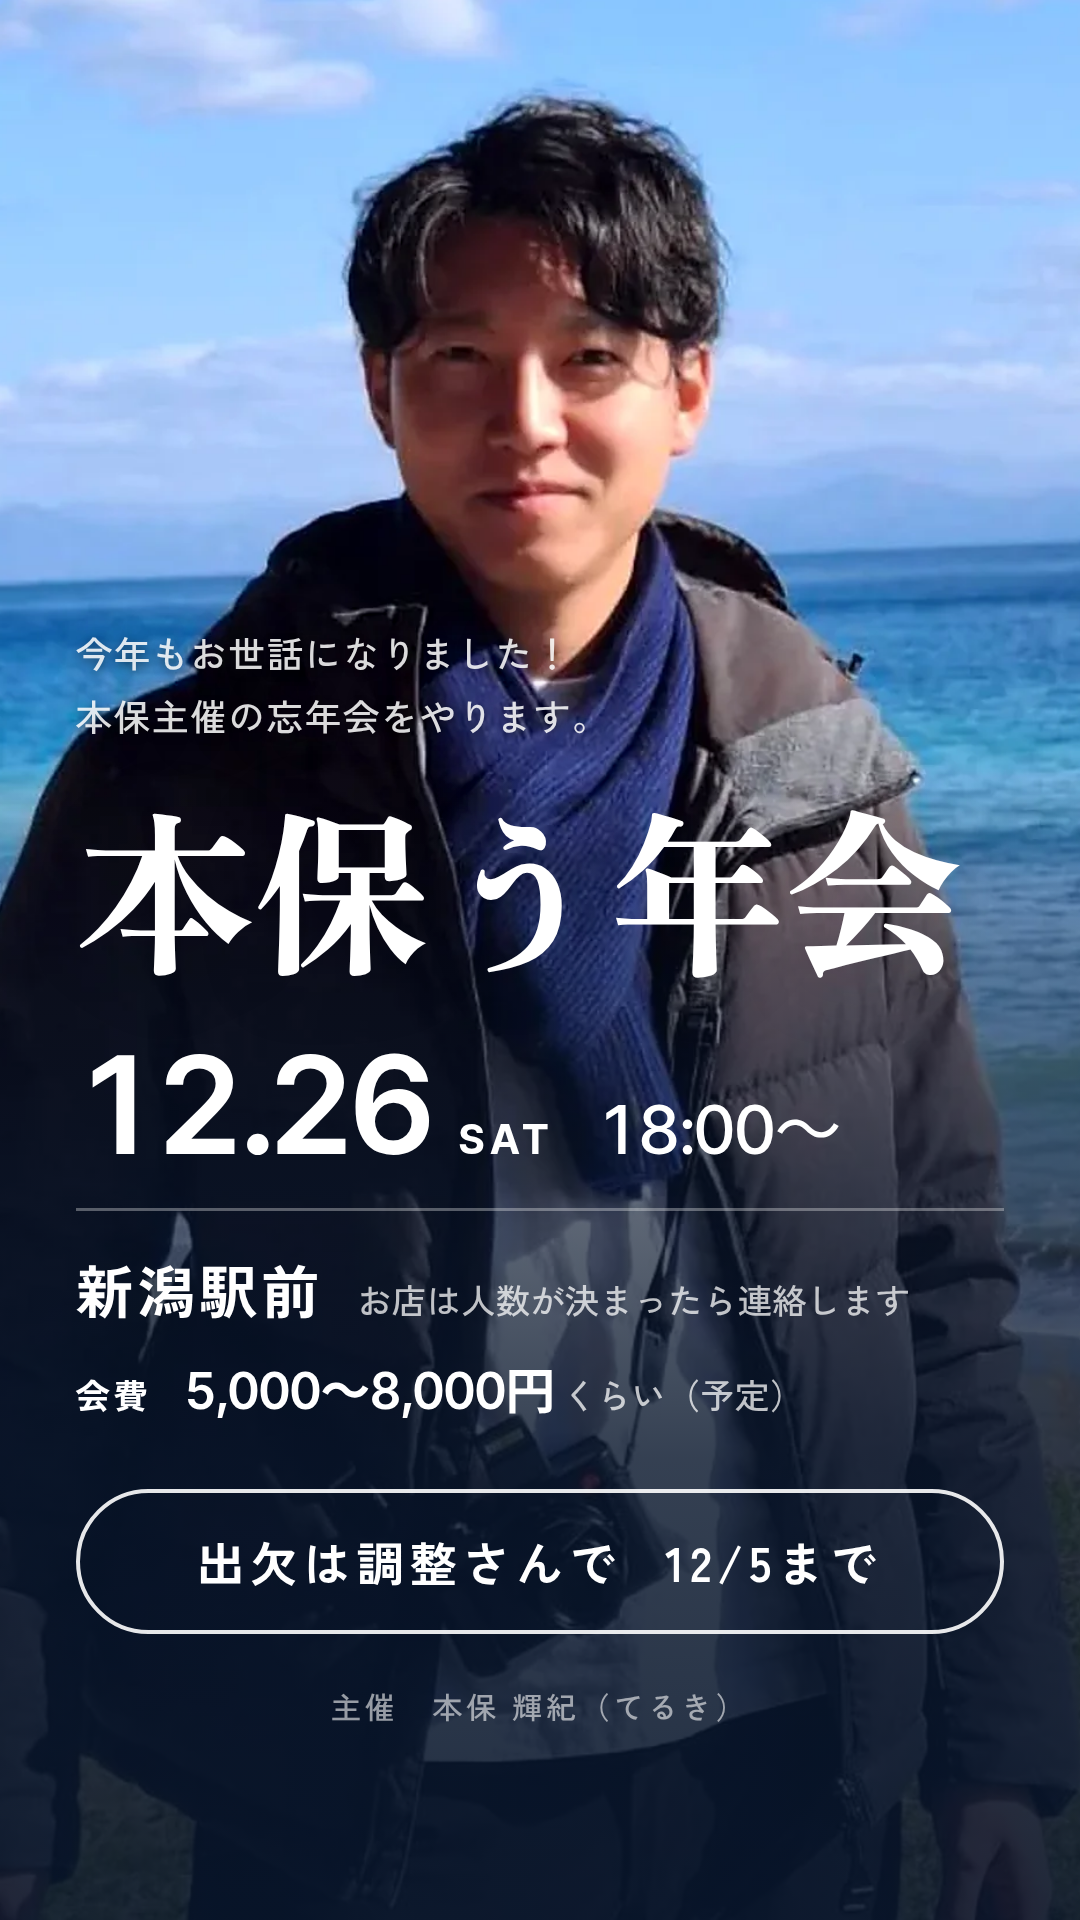
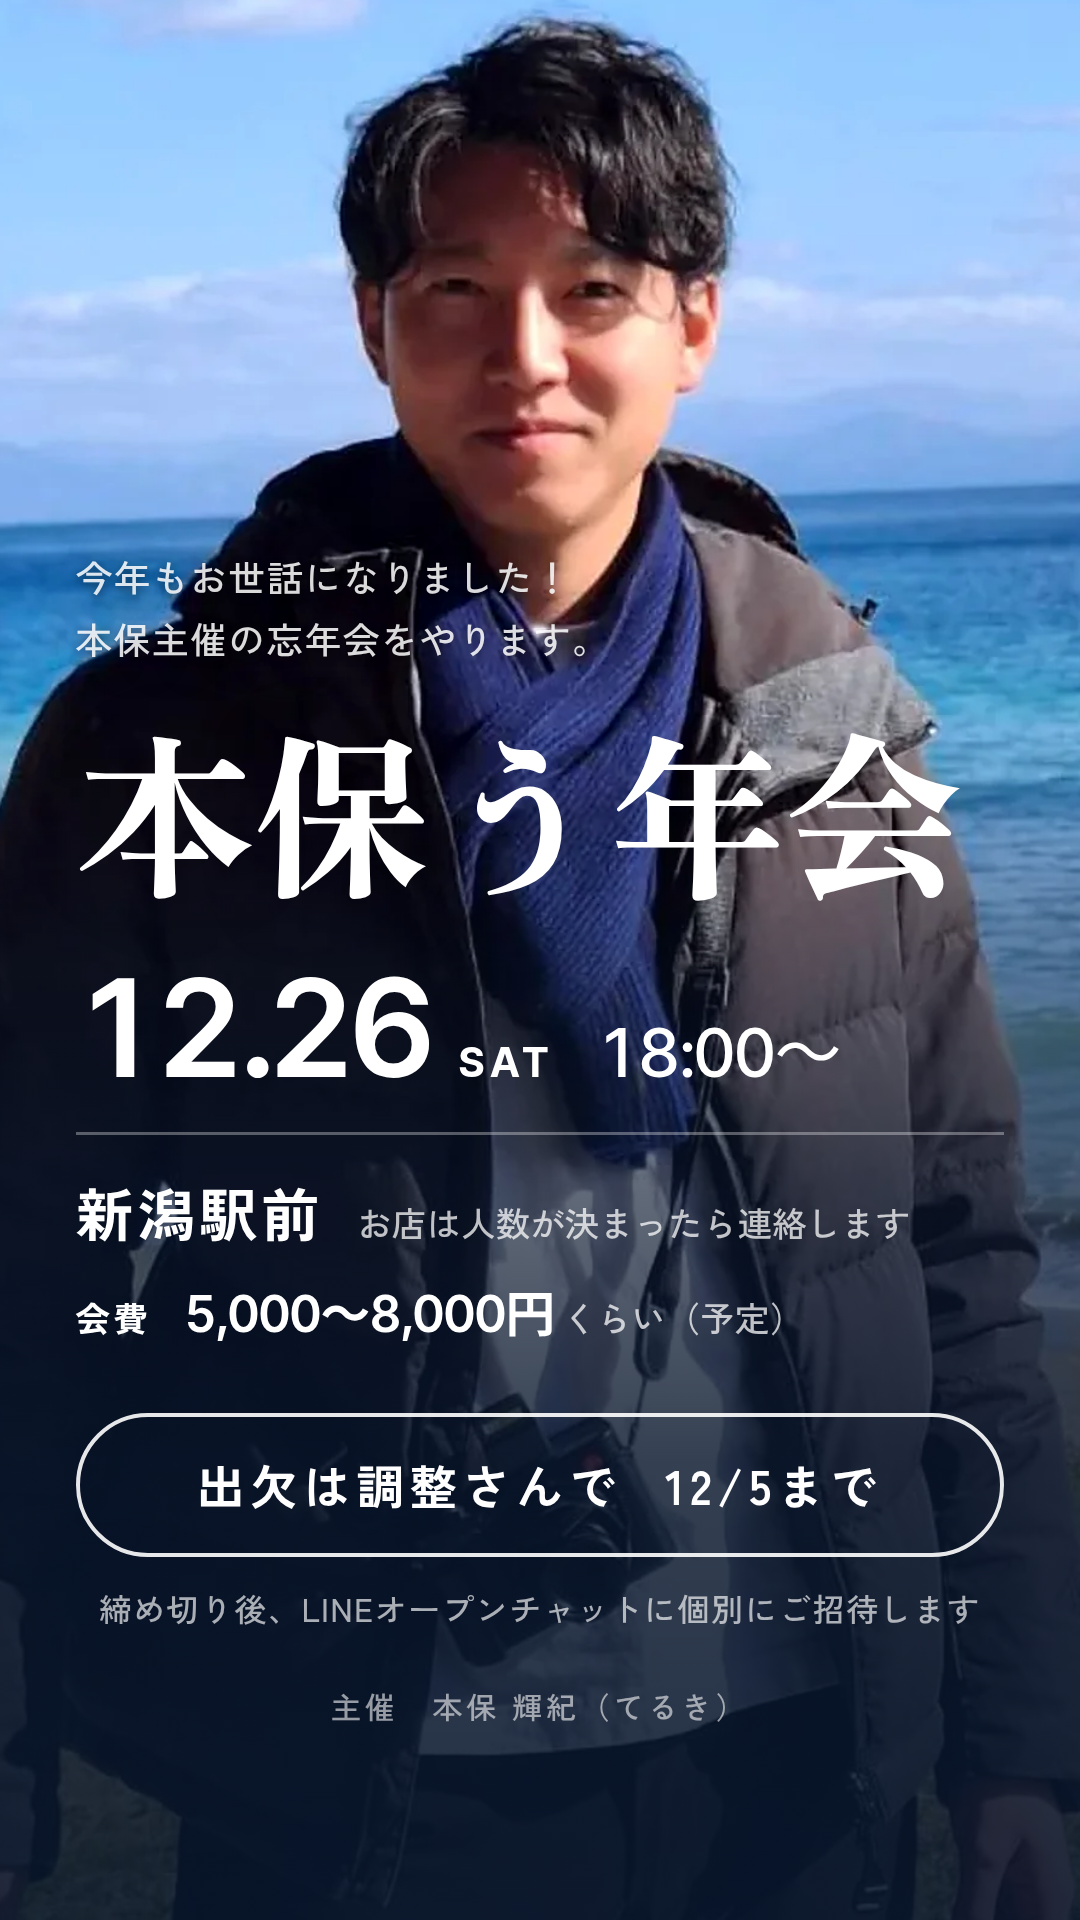
本保う年会: 締め切り後のLINEオープンチャット招待の案内を追加。story.png更新、css v=10

diff --git a/bonenkai-2026/index.html b/bonenkai-2026/index.html
@@ -23,7 +23,7 @@
 <link rel="preconnect" href="https://fonts.googleapis.com">
 <link rel="preconnect" href="https://fonts.gstatic.com" crossorigin>
 <link href="https://fonts.googleapis.com/css2?family=Inter+Tight:wght@500;600;700&family=Zen+Old+Mincho:wght@700;900&family=Zen+Kaku+Gothic+New:wght@500;700&display=swap" rel="stylesheet">
-<link rel="stylesheet" href="style.css?v=9">
+<link rel="stylesheet" href="style.css?v=10">
 </head>
 <body>
 <div class="backdrop" aria-hidden="true"></div>
@@ -44,6 +44,7 @@
     <div class="rsvp">
       <a class="btn" href="https://chouseisan.com/s?h=5b93fd0602bd4fe986247aafb72ce0ce" target="_blank" rel="noopener">出欠を入れる<span class="arrow" aria-hidden="true">→</span></a>
       <p class="due"><span class="nw">12/5（土）まで</span><span class="sep" aria-hidden="true">·</span><span class="nw">調整さん</span></p>
+      <p class="invite"><span class="nw">締め切り後、</span><span class="nw">LINEオープンチャットに</span><span class="nw">個別にご招待します</span></p>
     </div>
 
     <p class="host"><span class="nw">主催　本保 輝紀（てるき）</span></p>

diff --git a/bonenkai-2026/style.css b/bonenkai-2026/style.css
@@ -88,6 +88,10 @@ body{
   color:rgba(255,255,255,.84); letter-spacing:.04em;
 }
 .due .sep{margin:0 .6em; opacity:.6}
+.invite{
+  margin-top:.6cqh; text-align:center; font-size:max(10px,3cqw); line-height:1.6;
+  color:rgba(255,255,255,.66); letter-spacing:.04em;
+}
 
 .host{
   margin-top:2.6cqh; text-align:center; font-size:max(10px,2.8cqw);
@@ -110,5 +114,5 @@ body{
 }
 /* 9:16に近い横長めの画面では、写真を少し上へ寄せて顔とメモの間を空ける */
 @container (min-aspect-ratio: 53/100){
-  .photo{height:116%; inset:auto 0 0 0}
+  .photo{height:121%; inset:auto 0 0 0}
 }
